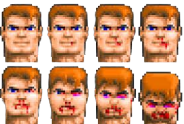
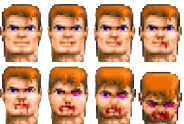
fix animacion cuchillo

diff --git a/client_src/music/audio_manager.cpp b/client_src/music/audio_manager.cpp
@@ -23,9 +23,7 @@ void AudioManager::stopSound() {
 
 void AudioManager::displayEmptyGunSound() {
     std::unique_lock<std::mutex> lock(m);
-    audio_player.playSound(getFilePath("empty_gun.mp3"));
-    usleep(200000);
-    audio_player.stopSound();
+    audio_player.playSound(getFilePath("empty_gun.mp3"), 200000);
 }
 
 void AudioManager::displayPlayerAttackingSound(int equipped_weapon) {
@@ -41,76 +39,59 @@ void AudioManager::displayPlayerAttackingSound(int equipped_weapon) {
 }
 
 void AudioManager::displayKnifeStabbingSound() {
-    audio_player.playSound(getFilePath("knife_stab.mp3"));
-    usleep(200000);
-    audio_player.stopSound();
+    audio_player.playSound(getFilePath("knife_stab.mp3"), 200000);
 }
 
 void AudioManager::displayPlayerShootingSound() {
-    audio_player.playSound("../client_src/resources/sounds/gun_fire.wav");
-    usleep(200000);
-    audio_player.stopSound();
+    audio_player.playSound(getFilePath("gun_fire.wav"), 200000);
 }
 
 void AudioManager::displayExplosionSound() {
     std::unique_lock<std::mutex> lock(m);
-    audio_player.playSound("../client_src/resources/sounds/explosion.mp3");
-    usleep(500000);
-    audio_player.stopSound();
+    audio_player.playSound(getFilePath("explosion.mp3"), 500000);
 }
 
 void AudioManager::displayDyingEnemy(double volume_ratio) {
     audio_player.setVolume((int) (volume_ratio * MAX_VOLUME));
     std::unique_lock<std::mutex> lock(m);
-    audio_player.playSound("../client_src/resources/sounds/dead_enemy.mp3");
-    usleep(400000);
-    audio_player.stopSound();
+    audio_player.playSound(getFilePath("dead_enemy.mp3"), 400000);
 }
 
 void AudioManager::displayEnemyShot(double volume_ratio) {
     std::unique_lock<std::mutex> lock(m);
-    audio_player.playSound("../client_src/resources/sounds/enemy_shot.mp3");
-    usleep(200000);
-    audio_player.stopSound();
+    audio_player.playSound(getFilePath("enemy_shot.mp3"), 200000);
 }
 
 void AudioManager::displayPlayerLosingHealthSound() {
     std::unique_lock<std::mutex> lock(m);
-    audio_player.playSound("../client_src/resources/sounds/losing_health.mp3");
-    usleep(500000);
-    audio_player.stopSound();
+    audio_player.playSound(getFilePath("losing_health.mp3"), 500000);
 }
 
 void AudioManager::displayDogAttackingSound(double volume_ratio) {
     audio_player.setVolume((int) (volume_ratio * MAX_VOLUME));
-    audio_player.playSound(getFilePath("dog_growling.mp3"));
-    usleep(500000);
-    audio_player.stopSound();
-    audio_player.restoreVolume();
+    audio_player.playSound(getFilePath("dog_growling.mp3"), 500000);
 }
 
 void AudioManager::displayDogGettingHit(double volume_ratio) {
     audio_player.setVolume((int) (volume_ratio * MAX_VOLUME));
-    audio_player.playSound(getFilePath("dog_hurt.mp3"));
-    usleep(500000);
-    audio_player.stopSound();
-    audio_player.restoreVolume();
+    audio_player.playSound(getFilePath("dog_hurt.mp3"), 500000);
 }
 
 void AudioManager::displayHumanGettingHit(double volume_ratio) {
     audio_player.setVolume((int) (volume_ratio * MAX_VOLUME));
-    audio_player.playSound(getFilePath("enemy_hurt.mp3"));
-    usleep(500000);
-    audio_player.stopSound();
-    audio_player.restoreVolume();
+    audio_player.playSound(getFilePath("enemy_hurt.mp3"), 500000);
 }
 
 void AudioManager::displayDyingDog(double volume_ratio) {
     audio_player.setVolume((int) (volume_ratio * MAX_VOLUME));
     audio_player.playSound(getFilePath("dog_death.mp3"));
-    usleep(500000);
-    audio_player.stopSound();
-    audio_player.restoreVolume();
+    //usleep(500000);
+    //audio_player.stopSound();
+    //audio_player.restoreVolume();
+}
+
+void AudioManager::displayPickUpSound() {
+    audio_player.playSound(getFilePath("item_pick_up.mp3"), 400000);
 }
 
 std::string AudioManager::getFilePath(std::string file_name) {

diff --git a/client_src/game/in_game_change_processor.cpp b/client_src/game/in_game_change_processor.cpp
@@ -44,6 +44,8 @@ std::vector<int> InGameChangeProcessor::processInGameChange(Change &change) {
         case (REMOVE_POSITIONABLE): {
             map.removeObject(id);
             render_vector = std::vector<int>{1, 1, 1, 0};
+            if (value1 == player.getId())
+                audio_manager.displayPickUpSound();
             // id: id del item
             break;
         }
@@ -101,12 +103,16 @@ std::vector<int> InGameChangeProcessor::processInGameChange(Change &change) {
         }
         case (KILL_PLAYER): {
             if (player.getId() == id) {
-                    screen.displayDeadScreen();
-                    sleep(2);
-                    player_alive = false;
+                screen.displayDeadScreen();
+                sleep(2);
+                player_alive = false;
                 //algo mas aca seguro
             } else {
-
+                map.killPlayer(id);
+                //if (map.isLastPlayerStanding()) {
+                    //audio_manager.displayVictorySong();
+                    //screen.displayVictoryScreen();
+                //}
             }
             // id: player_id - Debe morir definitivamente
             break;
@@ -207,6 +213,7 @@ void InGameChangeProcessor::processInGameChanges() {
     if (!game_running)
         return;
     screen.render(render_vector);
+    audio_manager.stopSound();
     map.updateEnemiesSprites();
     if (map.updateEvents()) {
         usleep(500000);
@@ -261,6 +268,7 @@ InGameChangeProcessor::processEnemyAmmoChange(int enemy_id, int value) {
     int enemy_type = map.getEnemyTypeFromId(enemy_id);
     if (enemy_type != ENEMY_DOG && value == 0)
         return std::vector<int>{0, 0, 0, 0};
+    map.setEnemyAttacking(enemy_id);
     double distance_ratio = map.getEnemyDistanceRatio(enemy_id);
     if (enemy_type == ENEMY_DOG)
         audio_manager.displayDogAttackingSound(distance_ratio);
@@ -272,8 +280,7 @@ InGameChangeProcessor::processEnemyAmmoChange(int enemy_id, int value) {
 std::vector<int> InGameChangeProcessor::processPlayerAmmoChange(int delta) {
     std::vector<int> render_vector;
     if (delta < 0) {
-        audio_manager.displayPlayerAttackingSound(player.
-                getEquippedWeapon());
+        audio_manager.displayPlayerShootingSound();
         screen.displayPlayerAttacking();
         render_vector = std::vector<int>{0, 0, 1, 1};
     }
@@ -283,7 +290,8 @@ std::vector<int> InGameChangeProcessor::processPlayerAmmoChange(int delta) {
             render_vector = std::vector<int>{0, 0, 0, 0};
         }
         else {
-            audio_manager.displayPlayerAttackingSound(1);
+            audio_manager.displayKnifeStabbingSound();
+            screen.displayPlayerAttacking();
             render_vector = std::vector<int>{1, 1, 1, 0};
         }
     }

diff --git a/client_src/game/image_manager.cpp b/client_src/game/image_manager.cpp
@@ -57,7 +57,7 @@ int ImageManager::getImageNumberFromWeapon(int weapon_number) {
     return weapon_number + WEAPON_ENEMY_DELTA;
 }
 
-int ImageManager::getShootingAnimationForWeapon(int weapon_number) {
+int ImageManager::getAttackingAnimationForWeapon(int weapon_number) {
     if (weapon_number == WEAPON_MACHINE_GUN)
         return 3;
     return 2;
@@ -93,7 +93,7 @@ std::vector<int> ImageManager::getMovingAnimationsForEnemy(int object_type) {
 
 void ImageManager::setAttackingAnimationForEnemy(Drawable& enemy) {
     if (enemy.getObjectType() == ENEMY_DOG) {
-        enemy.setSpriteAnimationNo(37);
+        enemy.setSpriteAnimationNo(42);
         return;
     }
     int current_animation = enemy.getSpriteAnimationNo();
@@ -106,7 +106,7 @@ void ImageManager::setAttackingAnimationForEnemy(Drawable& enemy) {
 
 void ImageManager::setDyingAnimationForEnemy(Drawable &enemy) {
     if (enemy.getObjectType() == ENEMY_DOG) {
-        enemy.setSpriteAnimationNo(31);
+        enemy.setSpriteAnimationNo(35);
         return;
     }
     enemy.setSpriteAnimationNo(8); // HAY MAS

diff --git a/client_src/graphics/menus_drawer.cpp b/client_src/graphics/menus_drawer.cpp
@@ -195,3 +195,24 @@ void MenusDrawer::displayStatistics(std::vector<int> statistics) {
     window.loadImage(message_3, msg_area_3, screen_area_3);
     window.render();
 }
+/*
+void MenusDrawer::displayVictoryScreen() {
+    SdlTexture menu_tex("../client_src/resources/menus/loading_screen.png");
+    displayFullImage(menu_tex);
+    Area screen_area(5*window_width/8, 3*window_height/4, window_width/4,
+                     window_height/6);
+    std::string message_text = "¡¡VICTORY!!";
+    if (!waiting_for_input)
+        message_text = "Loading...";
+    Area msg_area;
+    SDL_Texture* message =
+            createMessage(message_text, msg_area, screen_area);
+    window.loadImage(message, msg_area, screen_area);
+    window.render();
+    Area screen_area(0, 0, window_width, window_height);
+
+    window.drawRectangle(screen_area, 0, 0, 0, 0);
+    std::string message_text = "¡¡VICTORY!!";
+
+}
+*/

diff --git a/client_src/music/sdl_audio_player.cpp b/client_src/music/sdl_audio_player.cpp
@@ -3,6 +3,7 @@
 //
 
 #include <SDL_mixer.h>
+#include <zconf.h>
 #include "client/game/sdl_audio_player.h"
 
 void setVolume(int volume_level);
@@ -20,6 +21,18 @@ void SdlAudioPlayer::playSound(const std::string& file_name) {
         throw SdlException( "Error en la carga del audio", Mix_GetError());
     }
     Mix_PlayMusic(gMusic, -1);
+}
+
+void SdlAudioPlayer::playSound(const std::string& file_name, int span) {
+    std::unique_lock<std::mutex> lock(m);
+    Mix_Music* gMusic = Mix_LoadMUS(file_name.c_str());
+    if(!gMusic) {
+        throw SdlException( "Error en la carga del audio", Mix_GetError());
+    }
+    Mix_PlayMusic(gMusic, -1);
+    usleep(span);
+    Mix_HaltMusic();
+    restoreVolume();
 }
 
 void SdlAudioPlayer::stopSound() {

diff --git a/client_src/graphics/game_screen.cpp b/client_src/graphics/game_screen.cpp
@@ -84,7 +84,7 @@ void GameScreen::displayPlayerAttacking() {
     int y = player.getYPosition();
     ray_caster.renderBackground(x, y, player.getDirection());
     object_drawer.loadObjects(x, y, player.getDirection());
-    weapon_drawer.displayPlayerShooting(player.getEquippedWeapon());
+    weapon_drawer.displayPlayerAttacking(player.getEquippedWeapon());
     ui_drawer.drawPlayerUI(player);
     usleep(50000);
     ray_caster.renderBackground(x, y, player.getDirection());
@@ -113,4 +113,8 @@ void GameScreen::clearWindow() {
 void GameScreen::displayStatistics(std::vector<int> statistics) {
     menus_drawer.displayStatistics(statistics);
 }
-
+/*
+void GameScreen::displayVictoryScreen() {
+    menus_drawer.displayVictoryScreen();
+}
+*/

diff --git a/client_src/graphics/weapon_drawer.cpp b/client_src/graphics/weapon_drawer.cpp
@@ -45,11 +45,11 @@ Area WeaponDrawer::assembleScreenWeaponArea(ObjectInfo& object_info) {
     return screen_area;
 }
 
-void WeaponDrawer::displayPlayerShooting(int weapon_number) {
+void WeaponDrawer::displayPlayerAttacking(int weapon_number) {
     ObjectInfo object_info = info_provider.getObjectInfo(weapon_number
                                                          + EQ_WEAPON_DELTA);
     int sprite_animation_no =
-            ImageManager::getShootingAnimationForWeapon(weapon_number);
+            ImageManager::getAttackingAnimationForWeapon(weapon_number);
     object_info.setSpriteAnimationNo(sprite_animation_no);
     Area image_area;
     SDL_Texture* texture = getWeaponSprite(object_info, image_area);

diff --git a/include/client/game/image_manager.h b/include/client/game/image_manager.h
@@ -16,7 +16,7 @@ public:
     static int getImageNumberFromName(std::string name);
     static bool objectIsWall(int object_type);
     static int getImageNumberFromWeapon(int weapon_number);
-    static int getShootingAnimationForWeapon(int weapon_number);
+    static int getAttackingAnimationForWeapon(int weapon_number);
     static std::vector<int> getMovingAnimationsForEnemy(int object_type);
     static void setDyingAnimationForEnemy(Drawable &enemy);
     static void setAttackingAnimationForEnemy(Drawable& enemy);

diff --git a/client_src/graphics/ui_drawer.cpp b/client_src/graphics/ui_drawer.cpp
@@ -8,7 +8,7 @@
 #define PLAYER_FACE_SPRITE_IMAGES 8
 UIDrawer::UIDrawer(ObjectInfoProvider& _info_provider, SdlWindow& _window) :
                        player_face("../client_src/resources/ui/player_face.png",
-                       184, 124, 4, 2, 0, 0), info_provider(_info_provider),
+                       184, 124, 4, 2, 0, 3), info_provider(_info_provider),
                        window(_window) {}
 
 void UIDrawer::setDimensions(int _starting_point,

diff --git a/include/client/graphics/weapon_drawer.h b/include/client/graphics/weapon_drawer.h
@@ -29,7 +29,7 @@ public:
     void drawPlayersEquippedWeapon(int weapon_number);
     Area assembleScreenWeaponArea(ObjectInfo& object_info);
     SDL_Texture* getWeaponSprite(ObjectInfo& o_i, Area& image_area);
-    void displayPlayerShooting(int weapon_number);
+    void displayPlayerAttacking(int weapon_number);
     void displayPlayerStopShooting(int weapon_number);
     void setDimensions(int _starting_point, int _width);
 };

diff --git a/client_src/game/client_player.cpp b/client_src/game/client_player.cpp
@@ -160,7 +160,7 @@ void ClientPlayer::setRespawningPosition(std::pair<int, int> _respawn_position){
 }
 
 double ClientPlayer::getHealthRatio() {
-    std::cout << "Health ratio: "  << double (health)/ double (max_health) << std::endl;
+    //std::cout << "Health ratio: "  << double (health)/ double (max_health) << std::endl;
     return 1 - (double (health)/ double (max_health));
 }
 

diff --git a/client_src/game/client_map.cpp b/client_src/game/client_map.cpp
@@ -424,7 +424,7 @@ void ClientMap::setEnemyAttacking(int enemy_id) {
 }
 
 void ClientMap::setBloodEffectForEnemy(int enemy_id) {
-    std::cout << "Se agrega efecto de sangre\n";
+    //std::cout << "Se agrega efecto de sangre\n";
     Drawable& enemy = enemies.at(enemy_id);
     std::pair<int, int> enemy_pos = enemy.getMapPosition();
     int enemy_type = enemy.getObjectType();
